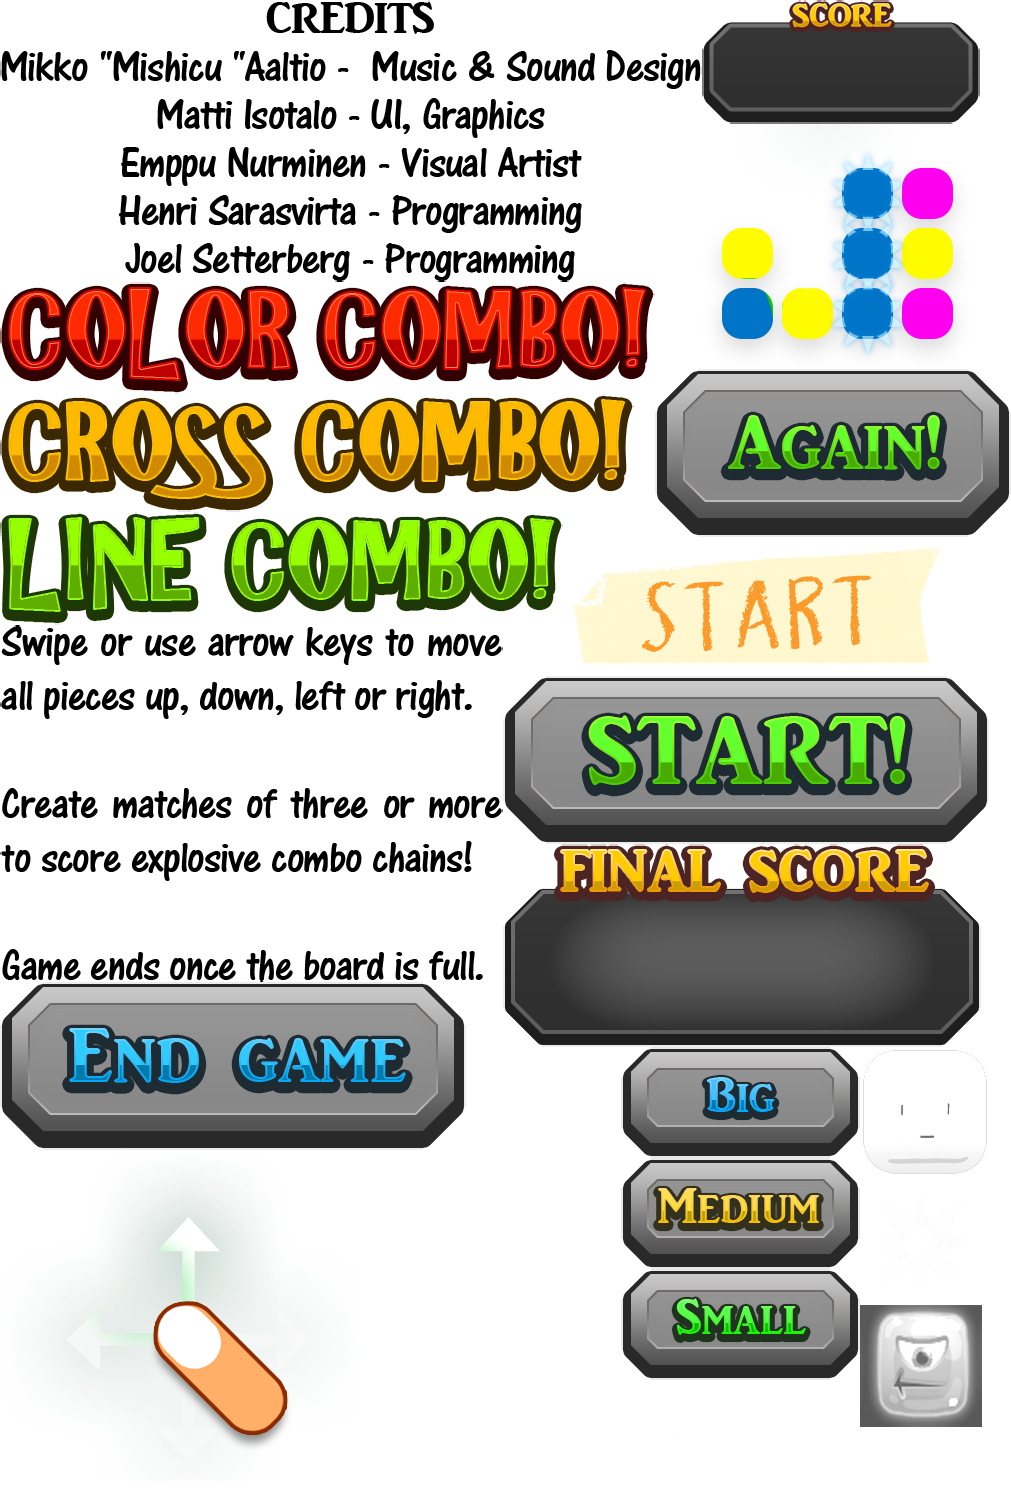
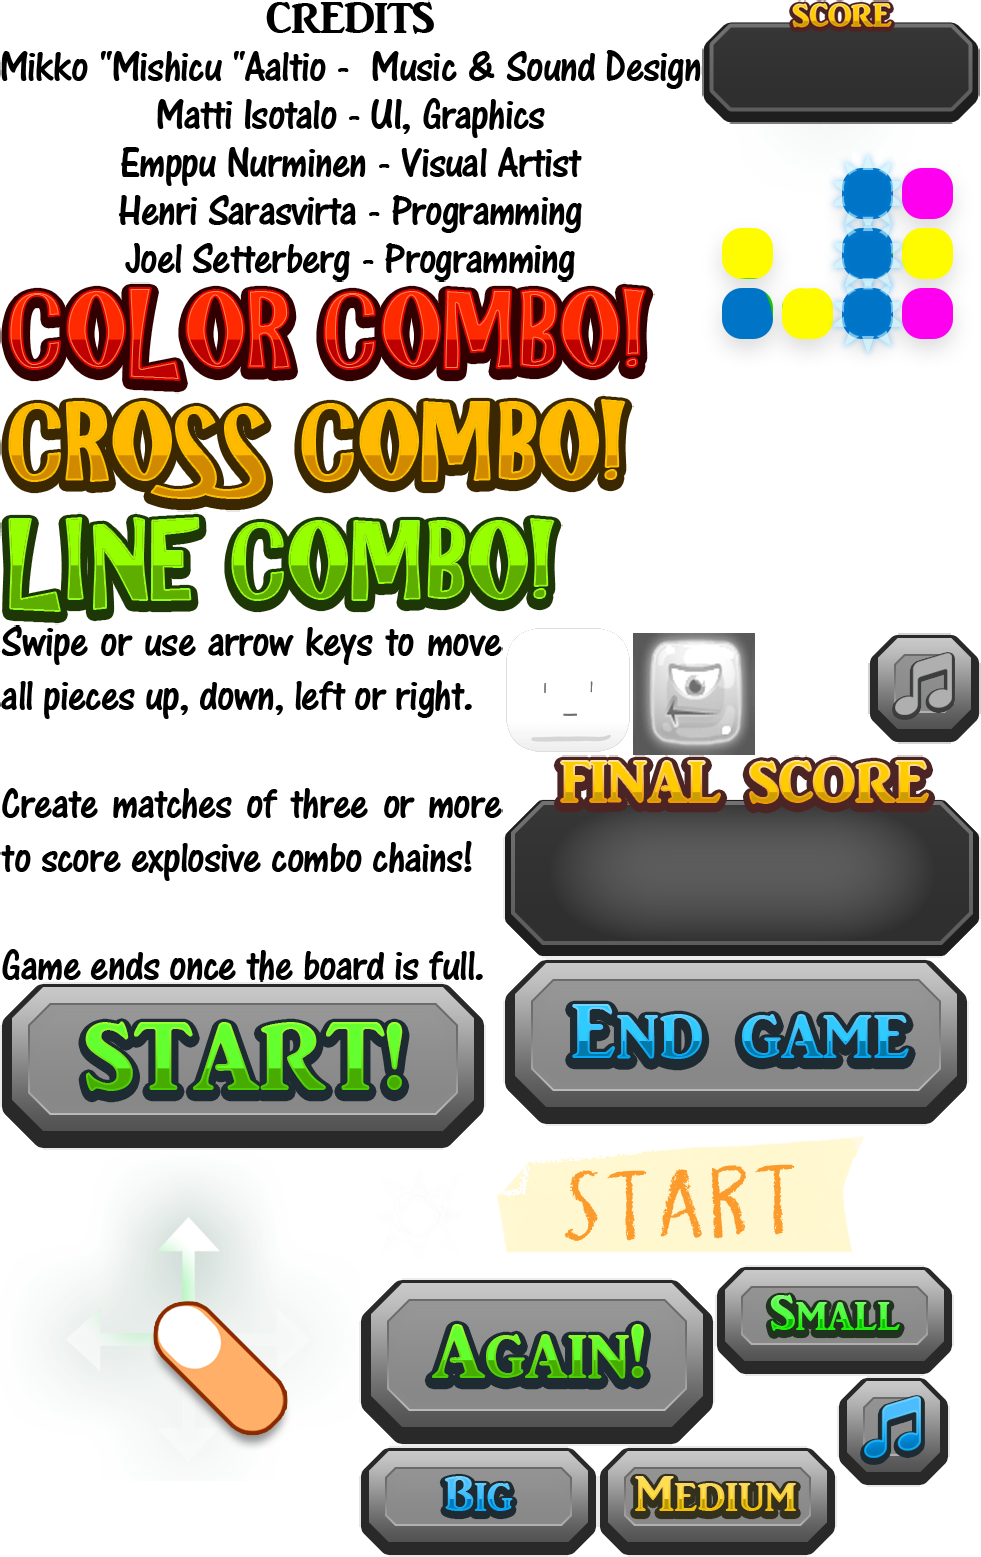
updated.

diff --git a/204crush/game.js b/204crush/game.js
@@ -67,14 +67,14 @@ HxOverrides.remove = function(a,obj) {
 };
 var Main = $hx_exports["Game"] = function() {
 	this.tickListeners = [];
-	haxe_Log.trace("new game",{ fileName : "Main.hx", lineNumber : 84, className : "Main", methodName : "new"});
+	haxe_Log.trace("new game",{ fileName : "Main.hx", lineNumber : 85, className : "Main", methodName : "new"});
 	createjs.Ticker = null;
 	util_LoaderWrapper.LOAD_ASSETS(Config.ASSETS,$bind(this,this.onAssetsLoaded));
 	sounds_Sounds.initSounds();
 };
 Main.__name__ = true;
 Main.main = function() {
-	haxe_Log.trace("Main",{ fileName : "Main.hx", lineNumber : 73, className : "Main", methodName : "main"});
+	haxe_Log.trace("Main",{ fileName : "Main.hx", lineNumber : 74, className : "Main", methodName : "main"});
 	$().ready(function() {
 		Main.instance = new Main();
 	});
@@ -114,10 +114,14 @@ Main.prototype = {
 		options.clearBeforeRender = true;
 		options.preserveDrawingBuffer = false;
 		options.roundPixels = false;
+		options.resolution = 1.25;
 		this.renderer = PIXI.autoDetectRenderer(size.width,size.height,options);
+		this.renderer.view.style.transform = "scale(0.8, 0.8)";
+		this.renderer.view.style.transformOrigin = "0 0";
 		window.document.getElementById("game").appendChild(this.renderer.view);
 	}
 	,initializeControls: function() {
+		var _gthis = this;
 		particles_ParticleManager.init();
 		this.mainContainer = new PIXI.Container();
 		this.game = new controls_GameView();
@@ -131,6 +135,29 @@ Main.prototype = {
 		this.mainContainer.addChild(this.end);
 		this.mainContainer.addChild(particles_ParticleManager.particles);
 		this.soundBtn = util_Asset.getImage("button_sound_on.png",true);
+		this.mainContainer.addChild(this.soundBtn);
+		this.soundBtn.interactive = true;
+		var soundsOn = this.soundBtn.texture;
+		var soundsOff = util_Asset.getTexture("button_sound_off.png",true);
+		this.soundBtn.scale.x = this.soundBtn.scale.y = 0.5;
+		this.soundBtn.x = 10;
+		this.soundBtn.y = 10;
+		this.soundBtn.addListener("click",function() {
+			_gthis.soundBtn.texture = _gthis.soundBtn.texture == soundsOn ? soundsOff : soundsOn;
+			if(_gthis.soundBtn.texture == soundsOff) {
+				sounds_Sounds.disableSounds();
+			} else {
+				sounds_Sounds.enableSounds();
+			}
+		});
+		this.soundBtn.addListener("tap",function() {
+			_gthis.soundBtn.texture = _gthis.soundBtn.texture == soundsOn ? soundsOff : soundsOn;
+			if(_gthis.soundBtn.texture == soundsOff) {
+				sounds_Sounds.disableSounds();
+			} else {
+				sounds_Sounds.enableSounds();
+			}
+		});
 		this.onResize(null);
 		this.ticker = new PIXI.ticker.Ticker();
 		this.ticker.start();
@@ -168,8 +195,8 @@ Main.prototype = {
 		sounds_Sounds.playEffect(sounds_Sounds.TAP);
 		logic_GridLogic.GRID_HEIGHT = 8;
 		logic_GridLogic.GRID_WIDTH = 8;
-		logic_GridLogic.RANDOM_SPAWN_AMOUNT.min = 5;
-		logic_GridLogic.RANDOM_SPAWN_AMOUNT.max = 10;
+		logic_GridLogic.RANDOM_SPAWN_AMOUNT.min = 3;
+		logic_GridLogic.RANDOM_SPAWN_AMOUNT.max = 8;
 		this.onStartClick();
 	}
 	,onStartClick: function() {
@@ -264,7 +291,7 @@ controls_Block.__name__ = true;
 controls_Block.__super__ = PIXI.Container;
 controls_Block.prototype = $extend(PIXI.Container.prototype,{
 	initializeControls: function() {
-		var colors = ["blue","green","orange","purple"];
+		var colors = ["blue","green","orange","purple","red"];
 		if(controls_Block.moveLeft.length == 0) {
 			var _g = 0;
 			while(_g < colors.length) {
@@ -343,7 +370,7 @@ controls_Block.prototype = $extend(PIXI.Container.prototype,{
 			createjs.Tween.get(this.bright).wait(200,true).to({ alpha : 0.5},150).to({ alpha : 0},50);
 			createjs.Tween.removeTweens(this.scale);
 			createjs.Tween.get(this.scale).wait(200,true).call(function() {
-				particles_ParticleManager.squares.spawn(particles_ParticleManager.squares.toLocal(new PIXI.Point(),_gthis),[255,65280,16776960,10386634][_gthis.prevValue]);
+				particles_ParticleManager.squares.spawn(particles_ParticleManager.squares.toLocal(new PIXI.Point(),_gthis),[255,65280,16776960,10386634,16711680][_gthis.prevValue]);
 			}).to({ x : 0, y : 0},250,createjs.Ease.quadIn);
 		} else if(!this.active && this.node.value >= 0) {
 			this.prevValue = this.node.value;
@@ -793,7 +820,7 @@ controls_LineAnimator.prototype = $extend(PIXI.Container.prototype,{
 			this.curind++;
 			s.visible = true;
 			if(line.value != -1) {
-				s.tint = [255,65280,16776960,10386634][line.value];
+				s.tint = [255,65280,16776960,10386634,16711680][line.value];
 			}
 			s.x = tx;
 			s.y = ty;
@@ -817,7 +844,7 @@ controls_LineAnimator.prototype = $extend(PIXI.Container.prototype,{
 			this.curind++;
 			s.visible = true;
 			if(line.value != -1) {
-				s.tint = [255,65280,16776960,16777215][line.value];
+				s.tint = [255,65280,16776960,16777215,16711680][line.value];
 			}
 			s.x = tx;
 			s.y = ty;
@@ -841,7 +868,7 @@ controls_LineAnimator.prototype = $extend(PIXI.Container.prototype,{
 			this.curind++;
 			s.visible = true;
 			if(line.value != -1) {
-				s.tint = [255,65280,16776960,16777215][line.value];
+				s.tint = [255,65280,16776960,16777215,16711680][line.value];
 			}
 			s.x = tx;
 			s.y = ty;
@@ -946,7 +973,7 @@ controls_Score.prototype = $extend(PIXI.Container.prototype,{
 });
 var controls_StartView = function() {
 	this.minRectPortraitGame = new PIXI.Rectangle(568,0,920,1580);
-	this.minRectGame = new PIXI.Rectangle(272,170,1528,1152);
+	this.minRectGame = new PIXI.Rectangle(272,170,1528,1352);
 	PIXI.Container.call(this);
 	this.initializeControls();
 	this.soundObj = sounds_Sounds.playEffect(sounds_Sounds.START,0,0.3);
@@ -965,34 +992,34 @@ controls_StartView.prototype = $extend(PIXI.Container.prototype,{
 		this.swipe = util_Asset.getImage("tutorial_swipe.png",false);
 		this.swipe.anchor.set(0.5,0);
 		this.swipe.x = 760;
-		this.swipe.y = 530;
+		this.swipe.y = 630;
 		this.match = util_Asset.getImage("tutorial_match.png",false);
 		this.match.anchor.set(0.5,0);
 		this.match.x = 760;
-		this.match.y = 850;
+		this.match.y = 950;
 		this.text = util_Asset.getImage("text_tutorial.png",false);
 		this.text.anchor.set(0.5,0);
 		this.text.x = 1184;
-		this.text.y = 710;
+		this.text.y = 810;
 		this.start_small = util_Asset.getImage("button_board_small.png",false);
 		this.start_small.anchor.set(0.5,0);
 		this.start_small.x = 764;
-		this.start_small.y = 1174;
+		this.start_small.y = 1299;
 		this.start_small.interactive = true;
 		this.start_medium = util_Asset.getImage("button_board_medium.png",false);
 		this.start_medium.anchor.set(0.5,0);
 		this.start_medium.x = 1024;
-		this.start_medium.y = 1174;
+		this.start_medium.y = 1299;
 		this.start_medium.interactive = true;
 		this.start_big = util_Asset.getImage("button_board_big.png",false);
 		this.start_big.anchor.set(0.5,0);
 		this.start_big.x = 1284;
-		this.start_big.y = 1174;
+		this.start_big.y = 1299;
 		this.start_big.interactive = true;
 		this.bg_boardselection = util_Asset.getImage("bg_boardselection.png",false);
 		this.bg_boardselection.anchor.set(0.5,0);
 		this.bg_boardselection.x = 1024;
-		this.bg_boardselection.y = 1104;
+		this.bg_boardselection.y = 1224;
 		this.bg_boardselection.interactive = true;
 		this.bg = util_Asset.getImage("bg.png",false);
 		this.bg.anchor.set(0,0.15);
@@ -1599,7 +1626,8 @@ logic_Orientation.vertical = ["vertical",1];
 logic_Orientation.vertical.toString = $estr;
 logic_Orientation.vertical.__enum__ = logic_Orientation;
 var logic_GridLogic = function() {
-	haxe_Log.trace(logic_GridLogic.GRID_WIDTH,{ fileName : "GridLogic.hx", lineNumber : 37, className : "logic.GridLogic", methodName : "new", customParams : [logic_GridLogic.GRID_HEIGHT,logic_GridLogic.MAX_VALUE]});
+	this.swipes = 0;
+	haxe_Log.trace(logic_GridLogic.GRID_WIDTH,{ fileName : "GridLogic.hx", lineNumber : 39, className : "logic.GridLogic", methodName : "new", customParams : [logic_GridLogic.GRID_HEIGHT,logic_GridLogic.MAX_VALUE]});
 	this.grid = [];
 	this.nodes = [];
 	var _g1 = 0;
@@ -1662,12 +1690,17 @@ logic_GridLogic.prototype = {
 		if(node.value != -1) {
 			throw new js__$Boot_HaxeError("Randomizing node with existing value.");
 		}
-		node.value = Math.floor(Math.random() * logic_GridLogic.MAX_VALUE);
-		if(this.remove().length > 0) {
-			node.value = -1;
+		if(Math.random() < Math.min(0.2,this.swipes / 100)) {
+			node.value = logic_GridLogic.MAX_VALUE;
+		} else {
+			node.value = Math.floor(Math.random() * logic_GridLogic.MAX_VALUE);
+			if(this.remove().length > 0) {
+				node.value = -1;
+			}
 		}
 	}
 	,swipe: function(direction) {
+		this.swipes++;
 		if(direction == logic_Direction.right) {
 			this.bubbleRight();
 		} else if(direction == logic_Direction.left) {
@@ -1802,7 +1835,7 @@ logic_GridLogic.prototype = {
 			++_g3;
 			var match = this.testSquareMatch(n);
 			if(match != null && match.length > 0) {
-				haxe_Log.trace("-is square logic",{ fileName : "GridLogic.hx", lineNumber : 259, className : "logic.GridLogic", methodName : "remove"});
+				haxe_Log.trace("-is square logic",{ fileName : "GridLogic.hx", lineNumber : 268, className : "logic.GridLogic", methodName : "remove"});
 				if(outLines != null) {
 					outLines.push({ isSquare : true, value : n.value, nodes : match, orientation : null});
 				}
@@ -1834,7 +1867,7 @@ logic_GridLogic.prototype = {
 			}
 		}
 		if(removed.length > 0) {
-			haxe_Log.trace("REMVOED: " + removed.length,{ fileName : "GridLogic.hx", lineNumber : 280, className : "logic.GridLogic", methodName : "remove"});
+			haxe_Log.trace("REMVOED: " + removed.length,{ fileName : "GridLogic.hx", lineNumber : 289, className : "logic.GridLogic", methodName : "remove"});
 		}
 		return removed;
 	}
@@ -1850,11 +1883,11 @@ logic_GridLogic.prototype = {
 				toClear.push(n);
 			}
 		}
-		haxe_Log.trace("SQUARE CLEARS: " + toClear.length,{ fileName : "GridLogic.hx", lineNumber : 295, className : "logic.GridLogic", methodName : "applySquareClear"});
+		haxe_Log.trace("SQUARE CLEARS: " + toClear.length,{ fileName : "GridLogic.hx", lineNumber : 304, className : "logic.GridLogic", methodName : "applySquareClear"});
 		return toClear;
 	}
 	,applyLineClear: function(x,y,orientation) {
-		haxe_Log.trace("Clear line: " + x + ", " + y + ", " + Std.string(orientation),{ fileName : "GridLogic.hx", lineNumber : 301, className : "logic.GridLogic", methodName : "applyLineClear"});
+		haxe_Log.trace("Clear line: " + x + ", " + y + ", " + Std.string(orientation),{ fileName : "GridLogic.hx", lineNumber : 310, className : "logic.GridLogic", methodName : "applyLineClear"});
 		if(orientation == logic_Orientation.horizontal) {
 			var _g1 = 0;
 			var _g = logic_GridLogic.GRID_WIDTH;
@@ -1967,7 +2000,7 @@ logic_GridLogic.prototype = {
 			}
 			s += "\n";
 		}
-		haxe_Log.trace(s,{ fileName : "GridLogic.hx", lineNumber : 422, className : "logic.GridLogic", methodName : "printGrid"});
+		haxe_Log.trace(s,{ fileName : "GridLogic.hx", lineNumber : 431, className : "logic.GridLogic", methodName : "printGrid"});
 	}
 	,__class__: logic_GridLogic
 };
@@ -2581,7 +2614,7 @@ if(ArrayBuffer.prototype.slice == null) {
 	ArrayBuffer.prototype.slice = js_html_compat_ArrayBuffer.sliceImpl;
 }
 var Uint8Array = $global.Uint8Array || js_html_compat_Uint8Array._new;
-Config.ASSETS = ["img/ui.json","img/block_green.json","img/block_purple.json","img/block_orange.json","img/block_blue.json","img/bg.jpg","img/bg.png","img/bg_no_sky.png","img/bg_sky.png","img/trail.png","img/logo.png","img/button_board_small.png","img/button_board_medium.png","img/button_board_big.png","img/bg_boardselection.png","img/tutorial_swipe.png","img/tutorial_match.png","img/text_tutorial.png","img/bg_finalscore.png","img/bg_score.png","img/text_credits.png","img/button_again.png","img/button_endgame.png"];
+Config.ASSETS = ["img/ui.json","img/block_green.json","img/block_purple.json","img/block_orange.json","img/block_blue.json","img/block_red.json","img/bg.jpg","img/bg.png","img/bg_no_sky.png","img/bg_sky.png","img/trail.png","img/logo.png","img/button_board_small.png","img/button_board_medium.png","img/button_board_big.png","img/bg_boardselection.png","img/tutorial_swipe.png","img/tutorial_match.png","img/text_tutorial.png","img/bg_finalscore.png","img/bg_score.png","img/text_credits.png","img/button_again.png","img/button_endgame.png"];
 Config.VERSION = "204crush 0.1";
 controls_Block.moveLeft = [];
 controls_Block.moveRight = [];
